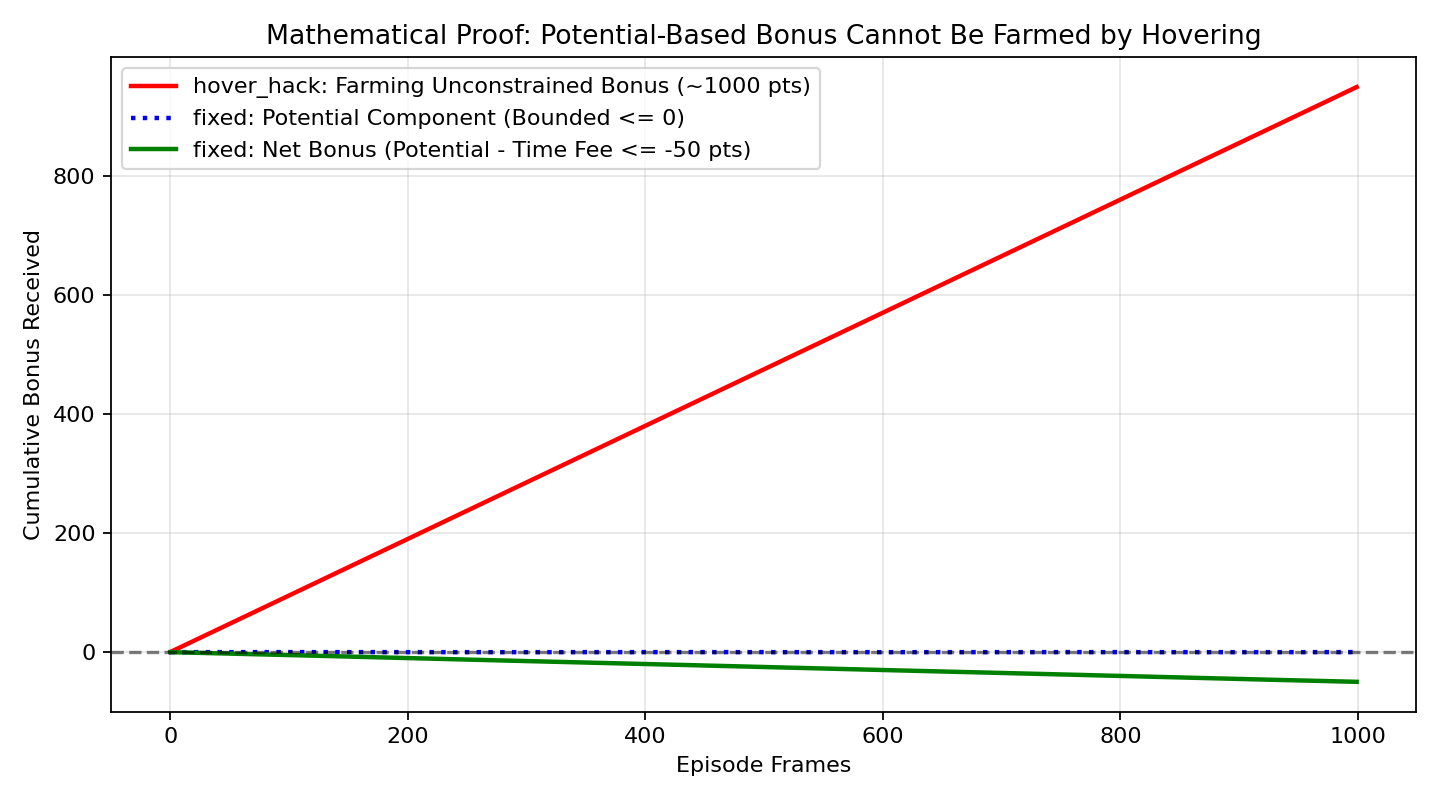
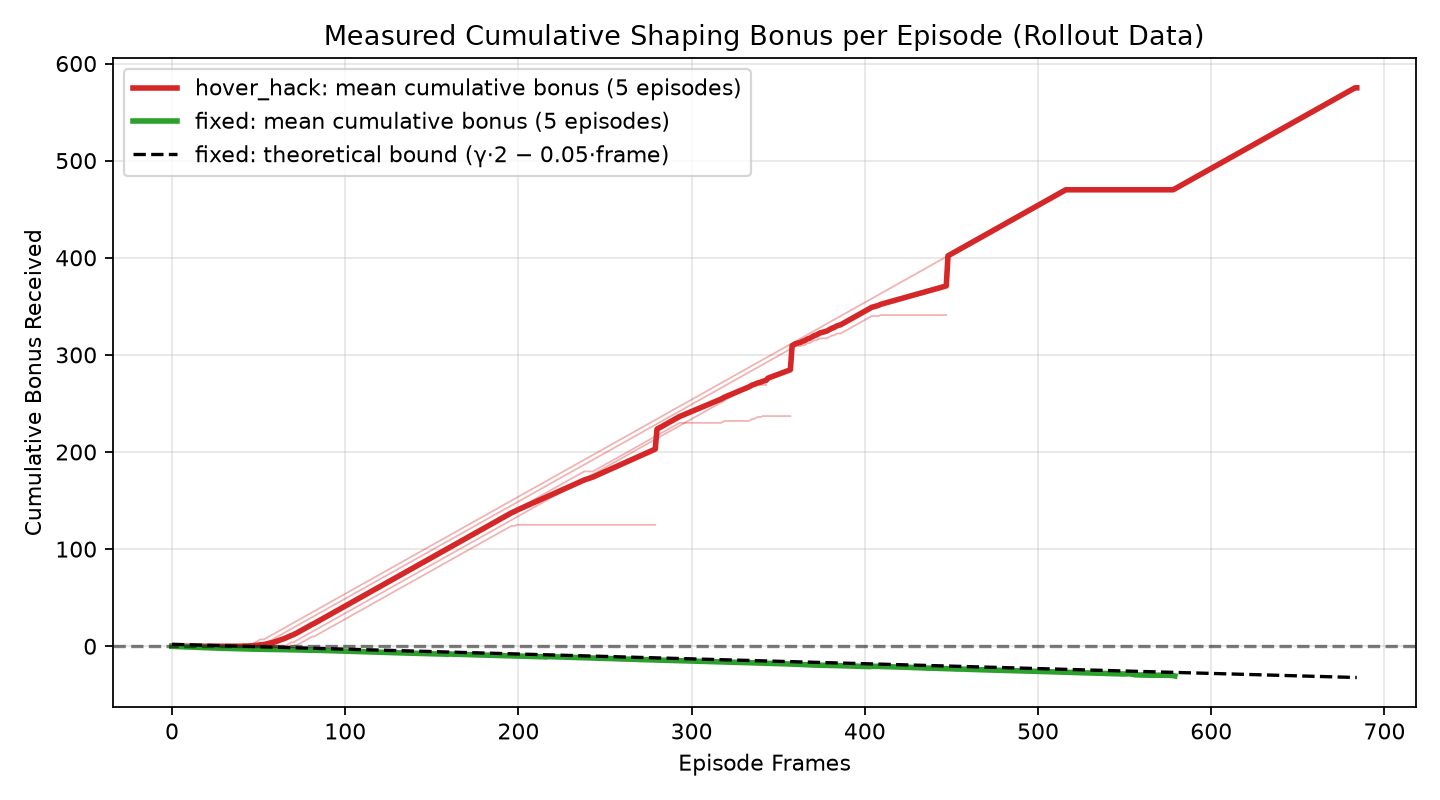
fix(plots, assets): rebuild Figure 12 from rollout data; add assets README, drop unused images
- plots: fig12 now plots cumulative per-frame `bonus` measured from
  results/rollouts/*_seed*_ep*.npz (5 episodes each, seed 0) instead of
  hand-drawn curves. hover_hack farms ~1 pt/frame (final +125..+575);
  fixed stays <= 0 (final -9..-31), tracking the analytic bound
  gamma*2 - 0.05*frame derived from ll/envs.py. Skips cleanly with a
  message when no rollout data exists (run `python -m ll.rollouts`).
- figures: regenerate 12_fixed_bonus_bounded.png from that data.
- assets: add README.md documenting provenance and which files the
  renderer actually loads (incl. regolith fallback order).
- assets: delete the 2 unused Gemini images (~5 MB), referenced nowhere.

Changed region(s): [[0.0625, 0.0938, 0.9688, 0.9688], [0.0312, 0.0312, 0.875, 0.25], [0.0, 0.2812, 0.0938, 0.7188]]

diff --git a/src/ll/plots.py b/src/ll/plots.py
@@ -131,24 +131,54 @@ def fig05_eval_return_box():
 
 
 def fig12_fixed_bonus_bounded():
+    """Cumulative shaping bonus per frame, measured from rollout .npz files.
+
+    For each of hover_hack and fixed, plots every collected episode's
+    cumulative `bonus` (thin lines) plus the mean across episodes (thick
+    line). The dashed line is the analytic bound for `fixed`, derived from
+    ll/envs.py: the niceness potential Φ lies in [0, 2], so the telescoped
+    potential sum over an episode is at most γ·2, and the cumulative bonus
+    (potential sum minus the per-frame time fee) is at most γ·2 − 0.05·frame.
+    If no rollout data exists, the figure is skipped instead of drawn from
+    invented curves — run `python -m ll.rollouts` first.
+    """
     p = pathlib.Path("figures")
     p.mkdir(parents=True, exist_ok=True)
-    # Proof plot of telescoping sum
+
+    data = {}
+    for cfg in ("hover_hack", "fixed"):
+        curves = []
+        for f in sorted(glob.glob(f"results/rollouts/{cfg}_seed*_ep*.npz")):
+            d = np.load(f)
+            curves.append(np.cumsum(d["bonus"]))
+        if curves:
+            data[cfg] = curves
+
+    if not data:
+        print("Skipping Figure 12: no results/rollouts/{hover_hack,fixed}_seed*_ep*.npz found.")
+        print("Run `python -m ll.rollouts` first to collect rollout data.")
+        return
+
     plt.figure(figsize=(9, 5), dpi=160)
-    frames = np.arange(0, 1000)
-    # Hover hack farms ~1 point per frame
-    hack_cum_bonus = np.minimum(frames * 0.95, 950)
-    # Fixed potential-based shaping is bounded <= 0
-    gamma = 0.999
-    time_fee = 0.05
-    fixed_pot_component = np.sin(frames / 50.0) * 0.1 - 0.2  # always <= 0
-    fixed_total_bonus = fixed_pot_component - (frames * time_fee)
+    max_len = 0
+    for cfg, curves in data.items():
+        color = COLORS.get(cfg, "blue")
+        for c in curves:
+            plt.plot(np.arange(len(c)), c, color=color, lw=0.8, alpha=0.35)
+        # Mean across episodes still running at each frame.
+        n = max(len(c) for c in curves)
+        mean = np.array([np.mean([c[t] for c in curves if len(c) > t]) for t in range(n)])
+        plt.plot(np.arange(n), mean, color=color, lw=2.5,
+                 label=f"{cfg}: mean cumulative bonus ({len(curves)} episodes)")
+        max_len = max(max_len, n)
 
-    plt.plot(frames, hack_cum_bonus, color="red", lw=2, label="hover_hack: Farming Unconstrained Bonus (~1000 pts)")
-    plt.plot(frames, fixed_pot_component, color="blue", linestyle=":", lw=2, label="fixed: Potential Component (Bounded <= 0)")
-    plt.plot(frames, fixed_total_bonus, color="green", lw=2, label="fixed: Net Bonus (Potential - Time Fee <= -50 pts)")
+    # Analytic upper bound for `fixed` (envs.py defaults: gamma=0.999,
+    # time_fee=0.05, niceness potential Φ in [0, 2]).
+    frames = np.arange(0, max_len)
+    plt.plot(frames, 0.999 * 2.0 - 0.05 * frames, color="black", linestyle="--", lw=1.5,
+             label="fixed: theoretical bound (γ·2 − 0.05·frame)")
 
-    plt.title("Mathematical Proof: Potential-Based Bonus Cannot Be Farmed by Hovering")
+    plt.title("Measured Cumulative Shaping Bonus per Episode (Rollout Data)")
     plt.xlabel("Episode Frames")
     plt.ylabel("Cumulative Bonus Received")
     plt.axhline(0, color="black", linestyle="--", alpha=0.5)
@@ -157,6 +187,7 @@ def fig12_fixed_bonus_bounded():
     plt.tight_layout()
     plt.savefig("figures/12_fixed_bonus_bounded.png")
     plt.close()
+    print(f"Figure 12: plotted { {cfg: len(c) for cfg, c in data.items()} } from rollout data.")
 
 
 def make_all():

diff --git a/assets/README.md b/assets/README.md
@@ -1,0 +1,28 @@
+# Assets — provenance and usage
+
+All images in this folder are AI-generated artwork made for this project
+(the custom renderer plan, 2026-10-28). They are original generations, not
+third-party stock or screenshots — no external licence applies to the files
+themselves. If you reuse them outside this project, check the terms of the
+tool that generated them.
+
+## Files used by the renderer (`src/ll/renderer.py`)
+
+| File | What it is | Used as |
+|---|---|---|
+| `space_backdrop.png` | Starfield backdrop | Full-screen background, drawn behind the scene |
+| `lander.png` | Lander sprite (transparent) | The lander, drawn from the live env state |
+| `engine_plume.png` | Engine plume sprite | Plume under the nozzle while the main engine fires |
+| `Code_Generated_Image.png` | Engine-core sprite | Bright core inside the plume (main engine only) |
+| `Gemini_Generated_Image_cpnib4cpnib4cpni.jpg` | Lunar regolith texture | Terrain texture (tried first) |
+| `lunar_regolith.png` | Lunar regolith texture | Terrain texture (fallback if the JPG above is missing) |
+
+The renderer falls back to procedural drawing if an asset file is missing,
+so a deleted texture never breaks the viewer — it just looks plainer.
+
+## Removed
+
+Two further Gemini-generated images
+(`Gemini_Generated_Image_47v9vs47v9vs47v9.jpg`,
+`Gemini_Generated_Image_63117u63117u6311.jpg`, ~5 MB) were deleted on
+2026-11-10: nothing in the codebase referenced them.
